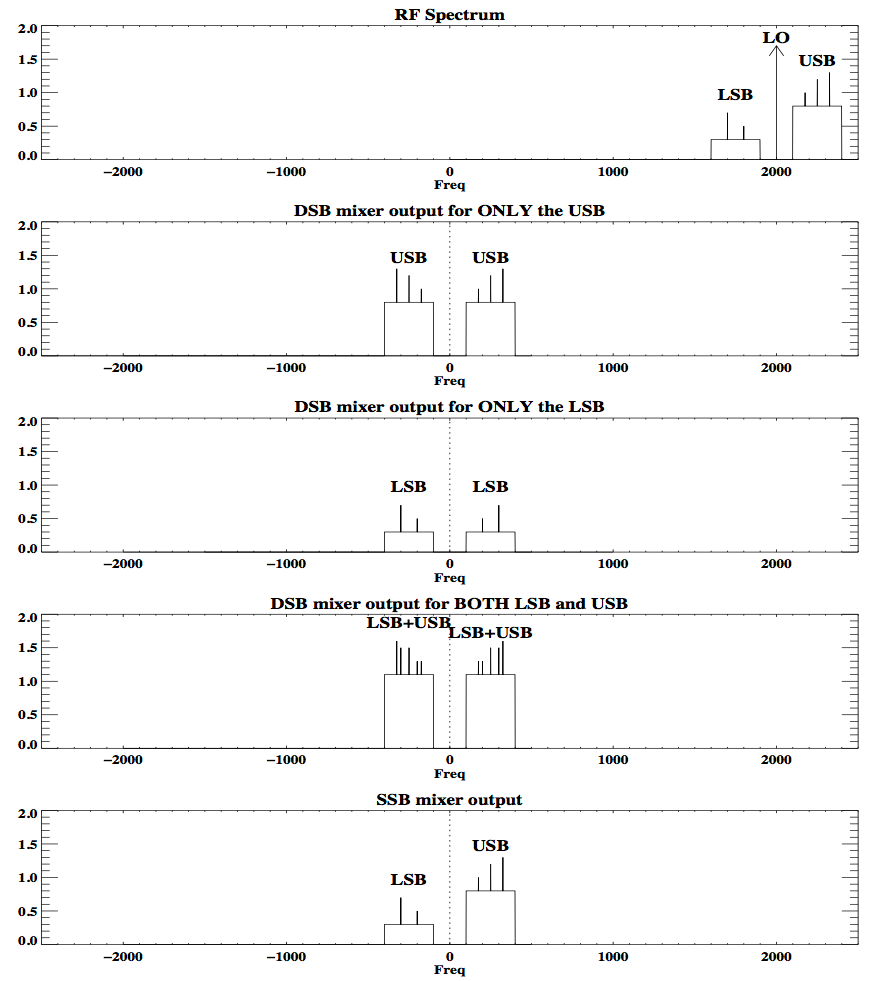
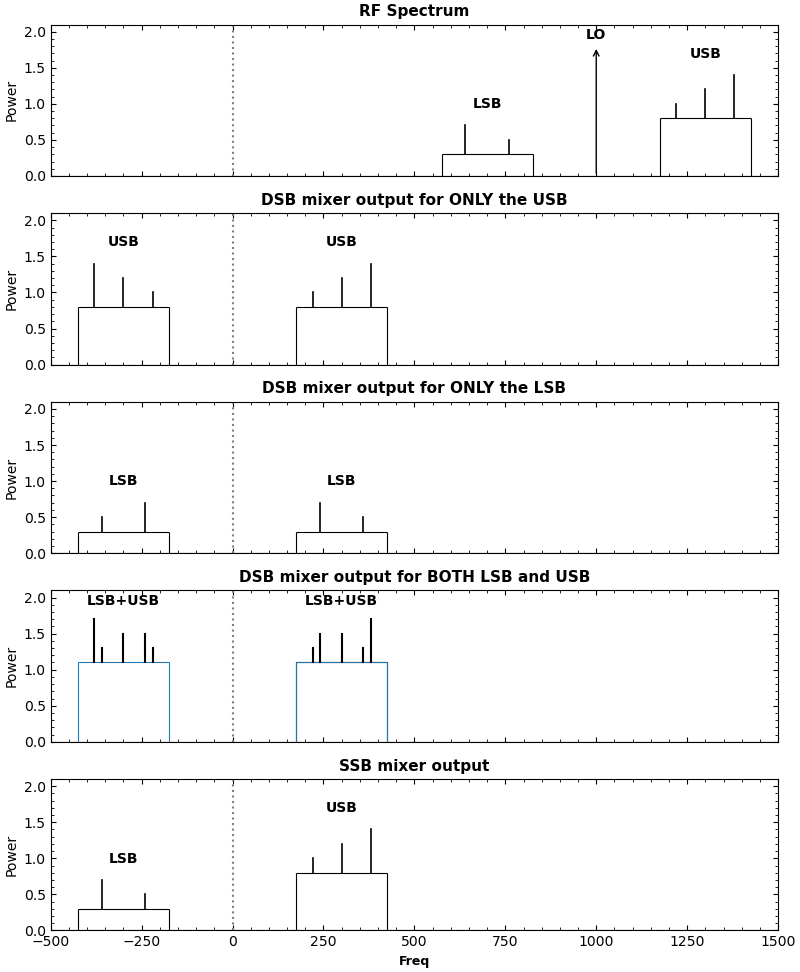
Added reverse-engineered script to generate sideband plot

diff --git a/lab_mixers/plot_sideband.py b/lab_mixers/plot_sideband.py
@@ -1,0 +1,234 @@
+import matplotlib.pyplot as plt
+import numpy as np
+
+def draw_spectral_block(ax, center_freq, width, box_height, 
+                        spike_offsets, spike_heights, 
+                        label, label_y_offset=0.2, color='black', 
+                        mirror=False):
+    """
+    Helper function to draw a spectral band (box + spikes).
+    
+    Parameters:
+    - ax: The matplotlib axis.
+    - center_freq: Center frequency of the block.
+    - width: Width of the rectangular base.
+    - box_height: Height of the rectangular base.
+    - spike_offsets: List of frequency offsets for spikes relative to center.
+    - spike_heights: List of heights for the spikes.
+    - mirror: If True, flips the spike pattern horizontally (for mixer images).
+    """
+    
+    # 1. Draw the Box (Outline only)
+    # Left, Top, Right lines
+    left = center_freq - width / 2
+    right = center_freq + width / 2
+    
+    ax.hlines(box_height, left, right, colors=color, linewidth=0.8)
+    ax.vlines(left, 0, box_height, colors=color, linewidth=0.8)
+    ax.vlines(right, 0, box_height, colors=color, linewidth=0.8)
+    
+    # 2. Draw Spikes
+    real_offsets = np.array(spike_offsets)
+    real_heights = np.array(spike_heights)
+    
+    if mirror:
+        # Flip offsets to mirror the shape across the center frequency
+        real_offsets = -real_offsets
+    
+    for off, h in zip(real_offsets, real_heights):
+        x = center_freq + off
+        # Draw line from top of box to spike height
+        ax.plot([x, x], [box_height, h], color=color, linewidth=1.2)
+    
+    # 3. Add Label
+    if label:
+        ax.text(center_freq, max(spike_heights) + label_y_offset, label, 
+                ha='center', va='bottom', fontweight='bold', fontsize=10)
+
+def setup_axis(ax, title):
+    """Configures axis limits, ticks, and titles to match the style."""
+    ax.set_xlim(-2800, 2800)
+    ax.set_ylim(0, 2.1)
+    
+    # Title
+    ax.set_title(title, fontweight='bold', fontsize=11)
+    
+    # X-axis formatting
+    ax.set_xlabel("Freq", fontweight='bold', fontsize=9)
+    ax.tick_params(direction='in', which='both', top=True, right=True)
+    ax.minorticks_on()
+    
+    # Center Dotted Line
+    ax.axvline(0, color='gray', linestyle=':', linewidth=1.5)
+    
+    # Horizontal line at 0
+    ax.axhline(0, color='black', linewidth=0.8)
+
+# --- Signal Definitions ---
+
+# LO Frequency
+LO_FREQ = 1000
+
+# USB Definition (at RF)
+# Relative to LO, let's say it's centered at +250
+USB_OFFSET = 300 
+USB_WIDTH = 250
+USB_BOX_H = 0.8
+# Spikes: Short, Medium, Tall (Ascending freq)
+USB_SPIKE_OFFS = [-80, 0, 80]
+USB_SPIKE_H = [1.0, 1.2, 1.4]
+
+# LSB Definition (at RF)
+# Relative to LO, let's say it's centered at -250
+LSB_OFFSET = -300
+LSB_WIDTH = 250
+LSB_BOX_H = 0.3
+# Spikes: Tall, Short (Ascending freq)
+LSB_SPIKE_OFFS = [-60, 60]
+LSB_SPIKE_H = [0.7, 0.5]
+
+
+# --- Plotting ---
+
+fig, axes = plt.subplots(5, 1,
+                         figsize=(8, 12),
+                         constrained_layout=True,
+                         sharex=True)
+
+# Panel 1: RF Spectrum
+ax = axes[0]
+setup_axis(ax, "RF Spectrum")
+
+# Draw LO
+ax.annotate("", xy=(LO_FREQ, 1.8), xytext=(LO_FREQ, 0), arrowprops=dict(arrowstyle="->", color="black"))
+ax.text(LO_FREQ, 1.9, "LO", ha='center', fontweight='bold')
+
+# Draw USB at RF
+draw_spectral_block(ax, LO_FREQ + USB_OFFSET, USB_WIDTH, USB_BOX_H, 
+                    USB_SPIKE_OFFS, USB_SPIKE_H, "USB")
+
+# Draw LSB at RF
+draw_spectral_block(ax, LO_FREQ + LSB_OFFSET, LSB_WIDTH, LSB_BOX_H, 
+                    LSB_SPIKE_OFFS, LSB_SPIKE_H, "LSB")
+
+
+# Panel 2: DSB Mixer Output for ONLY the USB
+# Real Mixing: Signal appears at +Offset and -Offset.
+# The negative frequency image is mirrored.
+ax = axes[1]
+setup_axis(ax, "DSB mixer output for ONLY the USB")
+
+# Positive Side (Original shape preserved)
+draw_spectral_block(ax, USB_OFFSET, USB_WIDTH, USB_BOX_H, 
+                    USB_SPIKE_OFFS, USB_SPIKE_H, "USB")
+# Negative Side (Mirrored)
+draw_spectral_block(ax, -USB_OFFSET, USB_WIDTH, USB_BOX_H, 
+                    USB_SPIKE_OFFS, USB_SPIKE_H, "USB", mirror=True)
+
+
+# Panel 3: DSB Mixer Output for ONLY the LSB
+ax = axes[2]
+setup_axis(ax, "DSB mixer output for ONLY the LSB")
+
+# Positive Side (Original shape preserved in terms of absolute bandwidth order)
+# Note: LSB was below LO. When mixed (RF-LO), it lands at negative freq. 
+# The image freq lands at positive. 
+# Visually in the image: Positive side matches RF LSB shape (Tall, Short).
+draw_spectral_block(ax, abs(LSB_OFFSET), LSB_WIDTH, LSB_BOX_H, 
+                    LSB_SPIKE_OFFS, LSB_SPIKE_H, "LSB")
+# Negative Side (Mirrored)
+draw_spectral_block(ax, -abs(LSB_OFFSET), LSB_WIDTH, LSB_BOX_H, 
+                    LSB_SPIKE_OFFS, LSB_SPIKE_H, "LSB", mirror=True)
+
+
+# Panel 4: DSB Mixer Output for BOTH LSB and USB
+# Superposition of Panel 2 and 3.
+# The boxes stack because they occupy the same baseband bandwidth.
+ax = axes[3]
+setup_axis(ax, "DSB mixer output for BOTH LSB and USB")
+
+# Calculate stacked heights
+combined_box_h = USB_BOX_H + LSB_BOX_H
+
+# Positive Side Stack
+# Draw the combined box outline
+draw_spectral_block(ax, abs(USB_OFFSET), USB_WIDTH, combined_box_h, 
+                    [], [], None) # Empty lists = just draw box
+# Draw USB spikes (on top of the combined box? No, image shows them extending from their respective "contributions")
+# Actually, the image shows the spikes sticking out of a single tall box.
+# We will draw the spikes relative to the combined floor or just overlay them.
+# Let's draw the USB spikes normally, but shifted up by LSB height? 
+# Or just draw them both. The image implies summation. 
+# To make it look like the image, we draw both sets of spikes on the combined box.
+# Re-using the function is tricky for stacking, so we manually call it for spikes.
+
+# Draw the Box
+left = abs(USB_OFFSET) - USB_WIDTH/2
+right = abs(USB_OFFSET) + USB_WIDTH/2
+ax.hlines(combined_box_h, left, right, linewidth=0.8)
+ax.vlines(left, 0, combined_box_h, linewidth=0.8)
+ax.vlines(right, 0, combined_box_h, linewidth=0.8)
+
+# Draw Positive Spikes (USB + LSB)
+# USB Spikes
+for off, h in zip(USB_SPIKE_OFFS, USB_SPIKE_H):
+    x = abs(USB_OFFSET) + off
+    # We add LSB_BOX_H to the visual base of the spike to represent stacking energy
+    ax.plot([x, x], [combined_box_h, h + LSB_BOX_H], color='black')
+
+# LSB Spikes
+for off, h in zip(LSB_SPIKE_OFFS, LSB_SPIKE_H):
+    x = abs(LSB_OFFSET) + off
+    ax.plot([x, x], [combined_box_h, h + USB_BOX_H], color='black')
+
+ax.text(abs(USB_OFFSET), max(USB_SPIKE_H) + LSB_BOX_H + 0.2, "LSB+USB", 
+        ha='center', fontweight='bold')
+
+
+# Negative Side Stack (Mirrored)
+left = -abs(USB_OFFSET) - USB_WIDTH/2
+right = -abs(USB_OFFSET) + USB_WIDTH/2
+ax.hlines(combined_box_h, left, right, linewidth=0.8)
+ax.vlines(left, 0, combined_box_h, linewidth=0.8)
+ax.vlines(right, 0, combined_box_h, linewidth=0.8)
+
+# Draw Negative Spikes (Mirrored)
+# USB Spikes (Mirrored)
+for off, h in zip(USB_SPIKE_OFFS, USB_SPIKE_H):
+    x = -abs(USB_OFFSET) - off # Mirror offset
+    ax.plot([x, x], [combined_box_h, h + LSB_BOX_H], color='black')
+
+# LSB Spikes (Mirrored)
+for off, h in zip(LSB_SPIKE_OFFS, LSB_SPIKE_H):
+    x = -abs(LSB_OFFSET) - off # Mirror offset
+    ax.plot([x, x], [combined_box_h, h + USB_BOX_H], color='black')
+
+ax.text(-abs(USB_OFFSET), max(USB_SPIKE_H) + LSB_BOX_H + 0.2, "LSB+USB", 
+        ha='center', fontweight='bold')
+
+
+# Panel 5: SSB Mixer Output
+# Complex Mixing: Shifts the spectrum to the left by LO.
+# LSB (originally at LO - 300) -> Moves to -300.
+# USB (originally at LO + 300) -> Moves to +300.
+# No mirroring occurs, just translation.
+ax = axes[4]
+setup_axis(ax, "SSB mixer output")
+
+# USB (shifted to +300)
+draw_spectral_block(ax, USB_OFFSET, USB_WIDTH, USB_BOX_H, 
+                    USB_SPIKE_OFFS, USB_SPIKE_H, "USB")
+
+# LSB (shifted to -300)
+draw_spectral_block(ax, LSB_OFFSET, LSB_WIDTH, LSB_BOX_H, 
+                    LSB_SPIKE_OFFS, LSB_SPIKE_H, "LSB")
+
+# Adjust layout and save
+# Remove x-labels from top 4 plots
+for i in range(5):
+    if i < 4:
+        axes[i].set_xlabel("")
+    axes[i].set_ylabel("Power")
+    axes[i].set_xlim(-500, 1500)
+
+plt.show()
